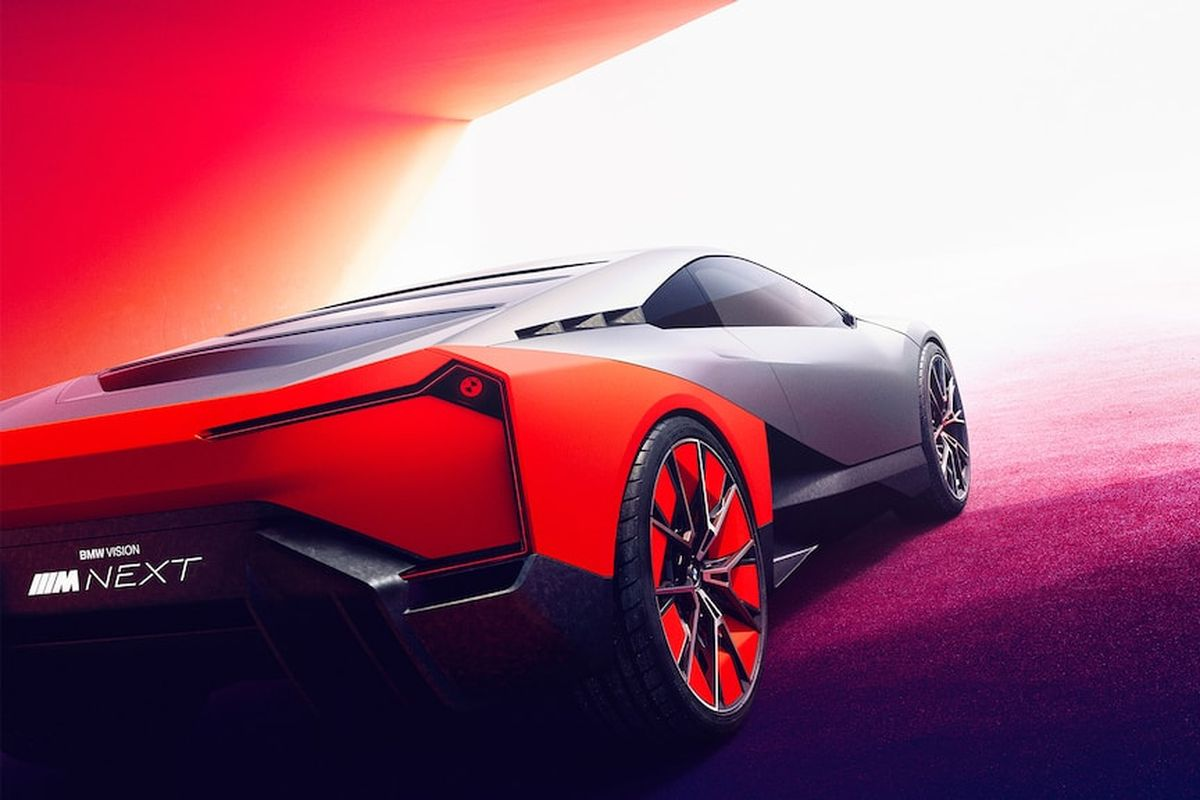
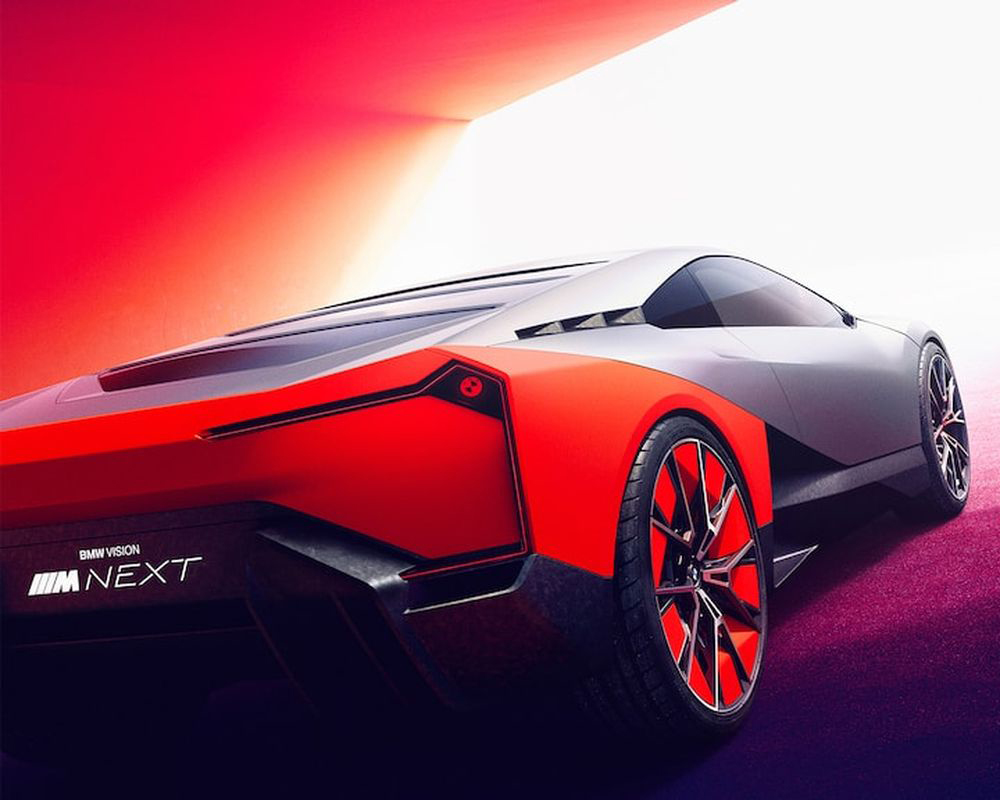
Resize image when longer screen

diff --git a/bmw_design/lib/screens/lamp_info_screen.dart b/bmw_design/lib/screens/lamp_info_screen.dart
@@ -16,7 +16,7 @@ class CarInfoScreen extends StatelessWidget {
         children: [
           Column(
             children: [
-              Expanded(flex: 4, child: _CarPreviewContainer(car: bmw)),
+              Expanded(flex: 5, child: _CarPreviewContainer(car: bmw)),
               Expanded(flex: 6, child: _CarInfo(car: bmw)),
             ],
           ),
@@ -88,13 +88,20 @@ class _CarInfoTabs extends StatelessWidget {
 
   @override
   Widget build(BuildContext context) {
-    return ClipRRect(
-      borderRadius: BorderRadius.circular(30),
-      child: Container(
-        decoration: BoxDecoration(
-          color: Color(0xFF1b2139),
+    return Column(
+      mainAxisAlignment: MainAxisAlignment.end,
+      children: [
+        Container(
+          height: 45,
+          decoration: BoxDecoration(
+            color: Colors.yellow,
+            //color: Color(0xFF1b2139),
+            borderRadius: BorderRadius.vertical(
+              top: Radius.circular(25),
+            ),
+          ),
         ),
-      ),
+      ],
     );
   }
 }
@@ -208,14 +215,6 @@ class _CarName extends StatelessWidget {
   }
 }
 
-//Still developing widget
-class _CarModel extends StatelessWidget {
-  final String model;
-  _CarModel({this.model});
-
-  Widget build(BuildContext context) {}
-}
-
 class _CarPreviewContainer extends StatelessWidget {
   final Car car;
   _CarPreviewContainer({@required this.car});
@@ -224,12 +223,9 @@ class _CarPreviewContainer extends StatelessWidget {
   Widget build(BuildContext context) {
     return Container(
       child: Stack(
-        children: [
-          Column(
-            children: [
-              _CarPicture(car: bmw),
-            ],
-          ),
+        children: <Widget>[
+          _CarPicture(car: bmw),
+          _CarInfoTabs(),
         ],
       ),
     );
@@ -243,9 +239,10 @@ class _CarPicture extends StatelessWidget {
   @override
   Widget build(BuildContext context) {
     return Container(
+      alignment: Alignment.topCenter,
       child: Image.asset(
         bmw.photoUrl,
-        fit: BoxFit.fitWidth,
+        fit: BoxFit.fill,
       ),
     );
   }
